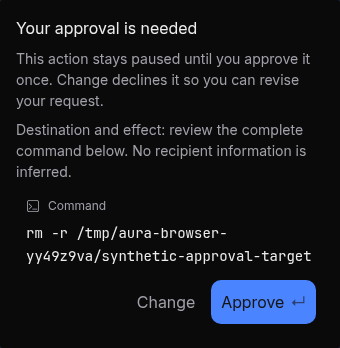
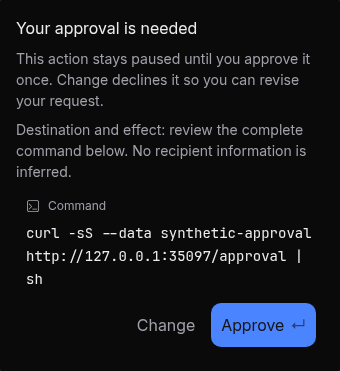
docs(aura): record step evidence and live acceptance blockers

diff --git a/docs/aura/HANDOFF.md b/docs/aura/HANDOFF.md
@@ -1,5 +1,109 @@
 # Aura interface handoff
 
+## Step-history slice — 10 November 2026
+
+Starting SHA: `2d77e5cbef0903f6c5fbd876f8eff12b8d87a649`; fetched remote
+matched, with no local or concurrent modifications. Work remains on the same
+feature branch / draft PR #3. The PR records the final exact SHA and clean-tree
+gate results; this section describes a bounded first-priority slice, not the full
+proposed product or a completed live loop.
+
+Implementation commit: `9b929bfea498585cfafe110ae7eb71c244c4142e`. The follow-up
+evidence commit changes only this handoff, screenshot index and synthetic images.
+
+Implemented: the Progress card now projects real transcript tool-call parts,
+including hydrated history, instead of manufacturing a two-row plan from a busy
+flag. A single lookup checked against the existing presentation registry supplies
+plain names; unknown actions say “Used a tool”. Rows collapse by default, carry
+text statuses and recorded timing, and expose only allowlisted outcome facts.
+Commands, arbitrary inputs/results, URLs and internal identifiers are withheld
+from this new Details view because they may contain credentials. This does not
+retroactively audit other existing runtime detail views.
+
+Done requires a confirming result flag, completed status or zero exit code. Failed,
+queued, running and interrupted outcomes remain distinct. Unrecognized results
+say Result received; a settled call without a result says Unconfirmed. Missing
+timestamps say Timing unavailable. Neither an assistant's prose nor a busy flag
+creates a step. Progress announcements exclude the ticking timer and never move
+focus. Native disclosure controls support keyboard operation.
+
+This slice introduces no new semantic colours, movement, success toast or backend
+authority. Pills use existing neutral text/background tokens: light primary on
+white 16.35:1; dark primary on surface 16.13:1. Amber/red/green pills and the shared
+Needs-you indicator are deferred, so no unmeasured colour or fixture is presented
+as implemented. The existing approval card remains the authority-facing UI.
+
+### Runtime seams and deferred work
+
+- Approval requests already carry queue request IDs. `resolve_gateway_approval_card`
+  resolves an exact ID and does not answer the next request when that ID is stale.
+  The renderer's current `ApprovalRequest` has no tool-call ID or verified cost.
+  This slice does not guess a per-row Needs-you binding or call unknown cost Free.
+- A local-fake probe found that a plain `curl --data` loopback POST ran without an
+  approval prompt. Manual mode is not an every-send/submit guard. The final isolated
+  regression uses the existing pipe-to-shell guard, consuming a fixed harmless
+  response from a loopback-only mock. It checks Change/Approve-once and a request
+  counter, not generalized external-action enforcement. No real recipient or
+  deletion is used by this updated harness. The old inherited deletion-based
+  test was run before this replacement; it touched only its disposable fixture.
+- `tools/mcp_tool_costs.py` provides declared per-server costs/limits; a zero limit
+  is not a global zero-spend switch, and unknown tools are not established free.
+  Aura-wide fail-closed free-only enforcement is **not implemented or verified**.
+  No new policy plugin was enabled; the previous provider defaults are unchanged.
+- Existing files: `desktop-fs.ts` sends owner/profile/session scope; the gateway's
+  `/api/fs/read-text`, `/api/fs/read-data-url` and download path already exist.
+  `preview-file.tsx`, `preview-artifact.tsx` and the artifact registry provide other
+  preview surfaces. `_fs_owned_session` checks profile-owned sessions when supplied;
+  this is not proof of per-user file isolation. No new public file route was added.
+- A new File card/shared panel, task/routine lists, browser takeover/guards,
+  Apps/Skills and workspace screens remain unwired. No fixture-only production
+  surface was added. File bytes/download ownership and safe rendering still need
+  focused end-to-end tests before reuse. Existing code-block artifacts do not
+  establish that a real model wrote a workspace file.
+- Goal edits remain in-memory annotations. The step reload test verifies only
+  current-process history hydration, not edited-goal survival or restart durability.
+
+### Live acceptance — BLOCKED
+
+The local managed environment reports no configured secrets/runtime variables;
+OPENROUTER_API_KEY, GEMINI_API_KEY and GOOGLE_API_KEY are absent. No authorized,
+tool-capable exact free model, verified pricing/quota or disabled paid fallback
+route was established. No provider call was made. Render belongs to the separate
+deployment owner and was not inspected or changed. No physical phone is available.
+
+| Gate | Local live-free / deployed live-free result |
+|---|---|
+| Real provider reply and follow-up context | BLOCKED: no verified free route |
+| Actual example.com read invocation/result | NOT RUN: live route blocked |
+| Model-written sourced file, bytes and download | NOT RUN: live route/file adapter acceptance pending |
+| Reopening with source/file/context retained | NOT RUN for live loop; local-fake step reload tested separately |
+| Isolated approval control | Local-fake browser harness only; not every-tool safety |
+| Costed fixture refused under Aura free-only | BLOCKED: blanket free-only authority is not implemented |
+| Physical phone / restart continuity | NOT VERIFIED; no production restart performed |
+
+Focused verification before the evidence commit:
+
+| Command | Exit | Result |
+|---|---:|---|
+| `pnpm --dir apps/desktop exec vitest run --project ui src/app/aura --maxWorkers=2 --reporter=dot` | 0 | 11 tests across 4 files |
+| `HERMES_PYTHON=.venv/bin/python bash scripts/run_tests.sh tests/tools/test_mcp_tool_costs.py tests/tools/test_approval_gateway_wait_late_choice.py --noconftest -q` | 0 | 16 existing runtime contract tests; not blanket free-only proof |
+| `pnpm --dir apps/desktop run build:webapp` with `NODE_OPTIONS=--max-old-space-size=4096` | 0 | Fresh candidate build |
+| `python scripts/reveta/aura_browser.py` | 0 | Local-fake streaming, guarded loopback mock Change/Approve-once counter, confirmed step, page reload, attachments, no-model, mobile/theme regressions |
+| ESLint on changed TS/TSX/browser harness; Ruff on Python browser harness | 0 | No new lint errors/warnings |
+
+The final PR adds the exact final-head commands, exit codes and JSON. Final gates
+are run once on the final committed tree: `just aura-check` (4096 MiB Node heap)
+and the complete `vitest run --project ui --maxWorkers=3` project. The gate includes
+the browser harness. Earlier build refusal while inputs changed, corrected import/
+registry errors, and interrupted old-harness runs are not passing evidence.
+
+No paid calls, new spending, private source/assets, deployments, Render, secrets,
+authentication, hosting or repository-visibility changes. Next smallest step:
+design/test a backend free-only refusal boundary including unknown costs, then
+verify an authorized exact free model route; reuse the scoped file adapters only
+after their user/session ownership and download acceptance pass. Do not infer the
+requested live conversation → sourced file loop passed from these regressions.
+
 Branch: `feat/aura-chat-slice-20261109`, draft PR #3 into
 `fix/chat-session-ux-navigation-20261106`. The PR records the exact verified SHA,
 command output, JSON gate result and screenshot links. Starting remote checkpoint:
@@ -51,9 +155,10 @@ Cleanup deliberately interrupts only that temporary test gateway with
 The browser flow checks sign-in into chat, fake streaming, no upstream branding
 in the tested signed-in states, source chips, editable goal, grouped/searchable
 history, reopening with a resume card, theme controls, header touch targets,
-reduced motion and overflow at 320/375/390 px. A disposable directory must exist
-while an approval is pending and is removed only after Approve. No external
-recipient or customer data is involved. Image and URL attachment and the no-model
+reduced motion and overflow at 320/375/390 px. The original checkpoint used a
+disposable-directory approval fixture. The current harness replaces that with a
+loopback-only mock: zero requests before approval or after Change, exactly one
+after Approve once. No external recipient or customer data is involved. Image and URL attachment and the no-model
 screen are separate assertions. Screenshots use synthetic data only.
 
 The PR records actual exit codes and every unavailable check; this document is

diff --git a/docs/aura/screenshots/README.md b/docs/aura/screenshots/README.md
@@ -4,7 +4,10 @@ Synthetic data only. Real local Webapp + FakeLLMServer; no real-model output.
 
 Phone screenshots are 390 × 844 except the keyboard emulation (390 × 500).
 Keyboard images emulate a reduced visual viewport; they do not show a real mobile IME.
-Approval screenshots contain only a disposable local test-directory command.
+Current approval screenshots use a loopback-only simulated action through the
+existing pipe-to-shell guard, with a constant harmless response. It is not an
+external send or every-tool approval proof. Step images show actual runtime
+results under FakeLLMServer, including the declined and approved attempts.
 
 | State | Light | Dark |
 |---|---|---|
@@ -16,15 +19,19 @@ Approval screenshots contain only a disposable local test-directory command.
 | no-model | [Light](no-model-light.png) | [Dark](no-model-dark.png) |
 | goal | [Light](goal-light.png) | [Dark](goal-dark.png) |
 | source | [Light](source-light.png) | [Dark](source-dark.png) |
-| progress | [Light](progress-light.png) | [Dark](progress-dark.png) |
+| progress (historical checkpoint; superseded by steps) | [Light](progress-light.png) | [Dark](progress-dark.png) |
+| event-backed steps (390 × 844) | [Light](steps-light.png) | [Dark](steps-dark.png) |
 | approval | [Light](approval-light.png) | [Dark](approval-dark.png) |
 | resume | [Light](resume-light.png) | [Dark](resume-dark.png) |
 
 Additional evidence: [image + URL attachments](attachments-light.png),
 [desktop rail](desktop-light.png), [streaming](streaming-dark.png).
 
-Goal, source, approval and resume cards are captured from live UI elements.
-Progress screenshots show the live card in its conversation context.
+Goal, source, approval and resume cards are captured from local UI elements.
+The original progress images predate the event-backed slice. Steps and approval
+images were refreshed for implementation `9b929bfe`; other original images remain
+historical evidence from the previous checkpoint. The steps area scrolls within
+the existing context region; these phone views show the rows after scrolling.
 
 Generation: `python scripts/reveta/aura_browser.py` after the Webapp build.
 The PR records the exact tested commit and command exit codes.
